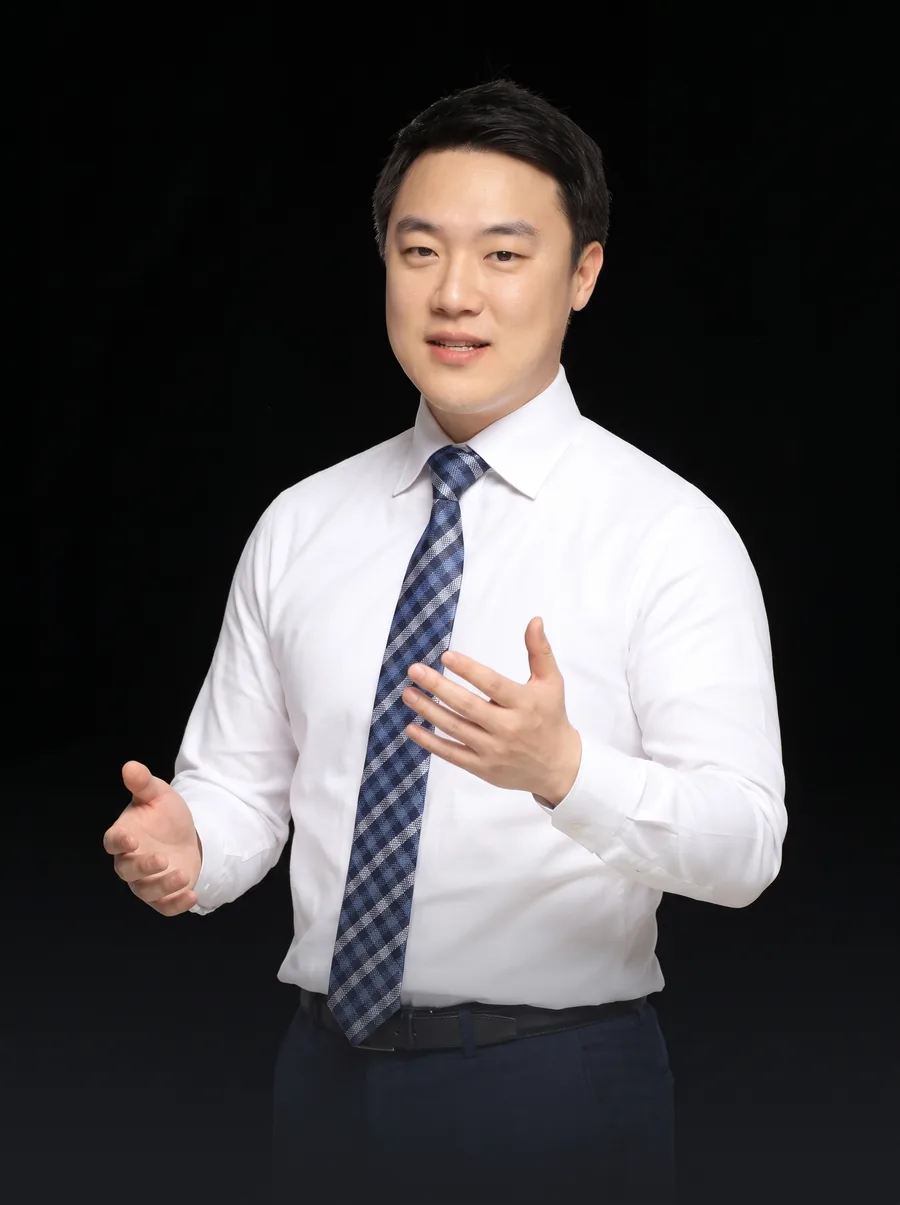
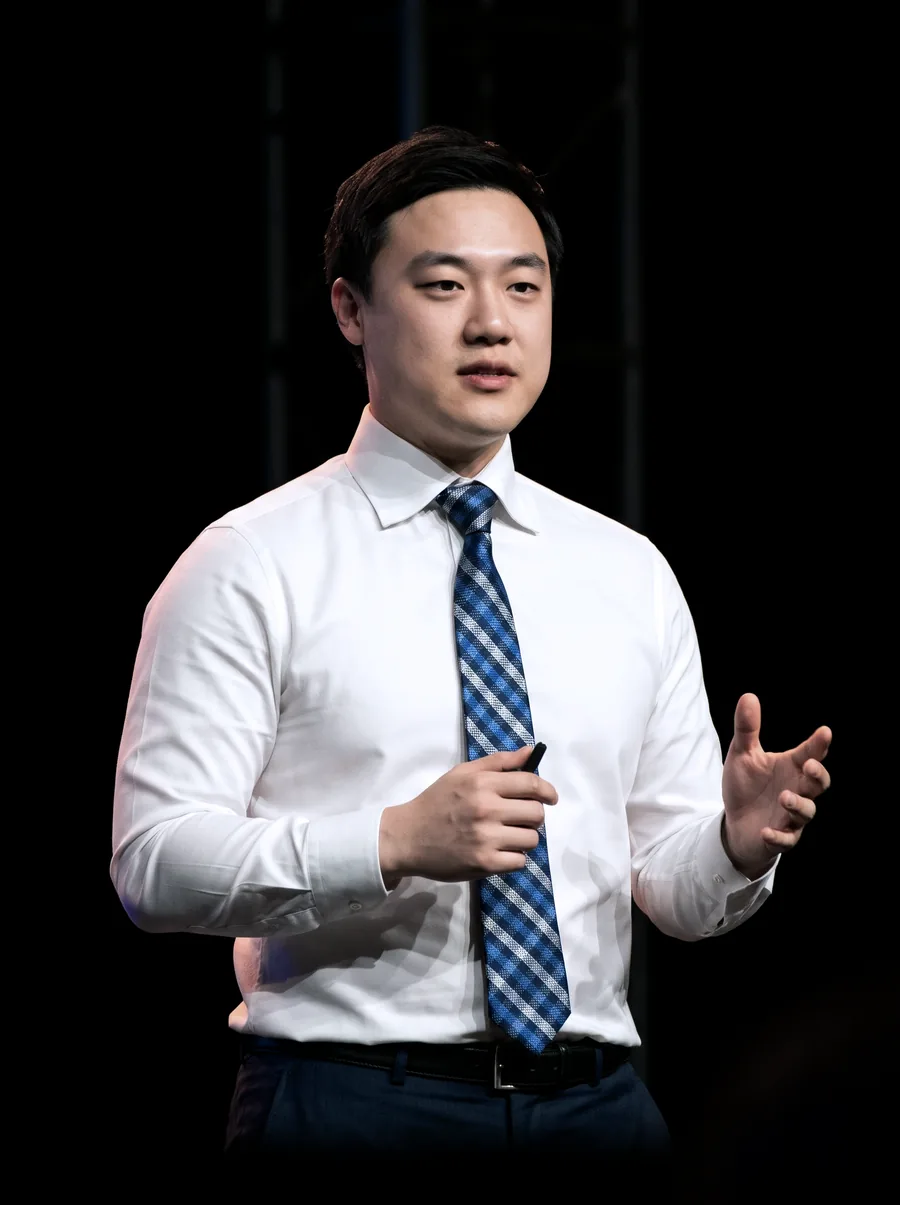
연사 3 사진(speaker3-1) 교체
Claude-Session: https://claude.ai/code/session_01Mn7Nn1Mw9LaHJEmW4pK4Vg

diff --git a/index.html b/index.html
@@ -533,7 +533,7 @@ html.rg-lock{overflow:hidden}
       <ul class="spk">
         <li><img src="assets/speaker1-1.webp?v=1239" width="900" height="1205" alt="김승준 변호사" loading="lazy" decoding="async"><div class="cap"><p class="ss">세션 1</p><h3>김승준 변호사</h3><p class="org">김앤장 법률사무소</p><p class="topic">상법 개정 관련 영향 및 대응방안</p></div></li>
         <li><img src="assets/speaker2.webp" width="900" height="1205" alt="권재열 연구소장" loading="lazy" decoding="async"><div class="cap"><p class="ss">세션 2</p><h3>권재열 연구소장</h3><p class="org">한국주주총회연구소, 교수</p><p class="topic">상법 개정과 전자주총이 몰고 올 기업 경영의 지각변동</p></div></li>
-        <li><img src="assets/speaker3-1.webp?v=1239" width="900" height="1205" alt="박성용 본부장" loading="lazy" decoding="async"><div class="cap"><p class="ss">세션 3</p><h3>박성용 본부장</h3><p class="org">IR큐더스</p><p class="topic">전자주총 솔루션 소개 및 가상 주주총회 시연</p></div></li>
+        <li><img src="assets/speaker3-1.webp?v=1557" width="900" height="1205" alt="박성용 본부장" loading="lazy" decoding="async"><div class="cap"><p class="ss">세션 3</p><h3>박성용 본부장</h3><p class="org">IR큐더스</p><p class="topic">전자주총 솔루션 소개 및 가상 주주총회 시연</p></div></li>
       </ul>
     </div>
   </section>
